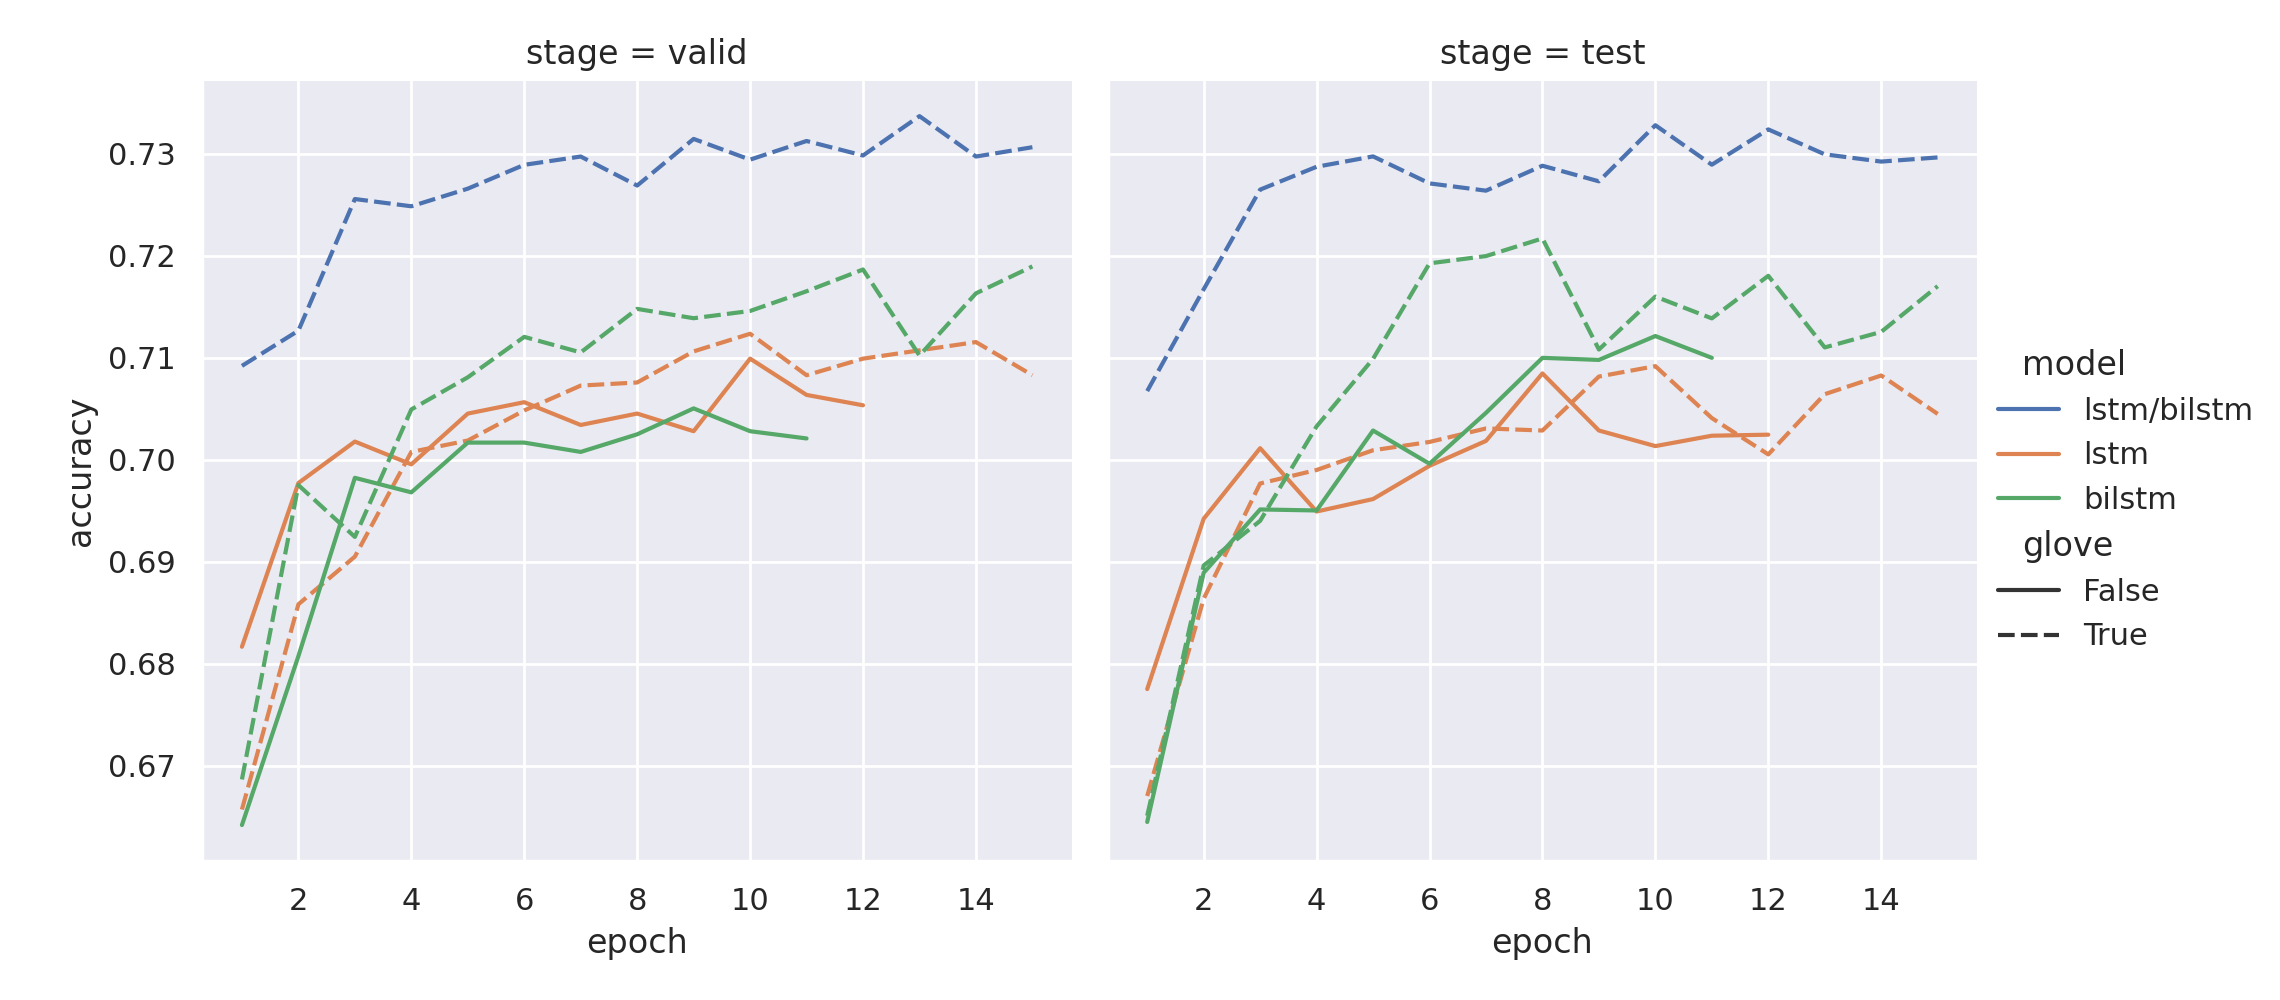
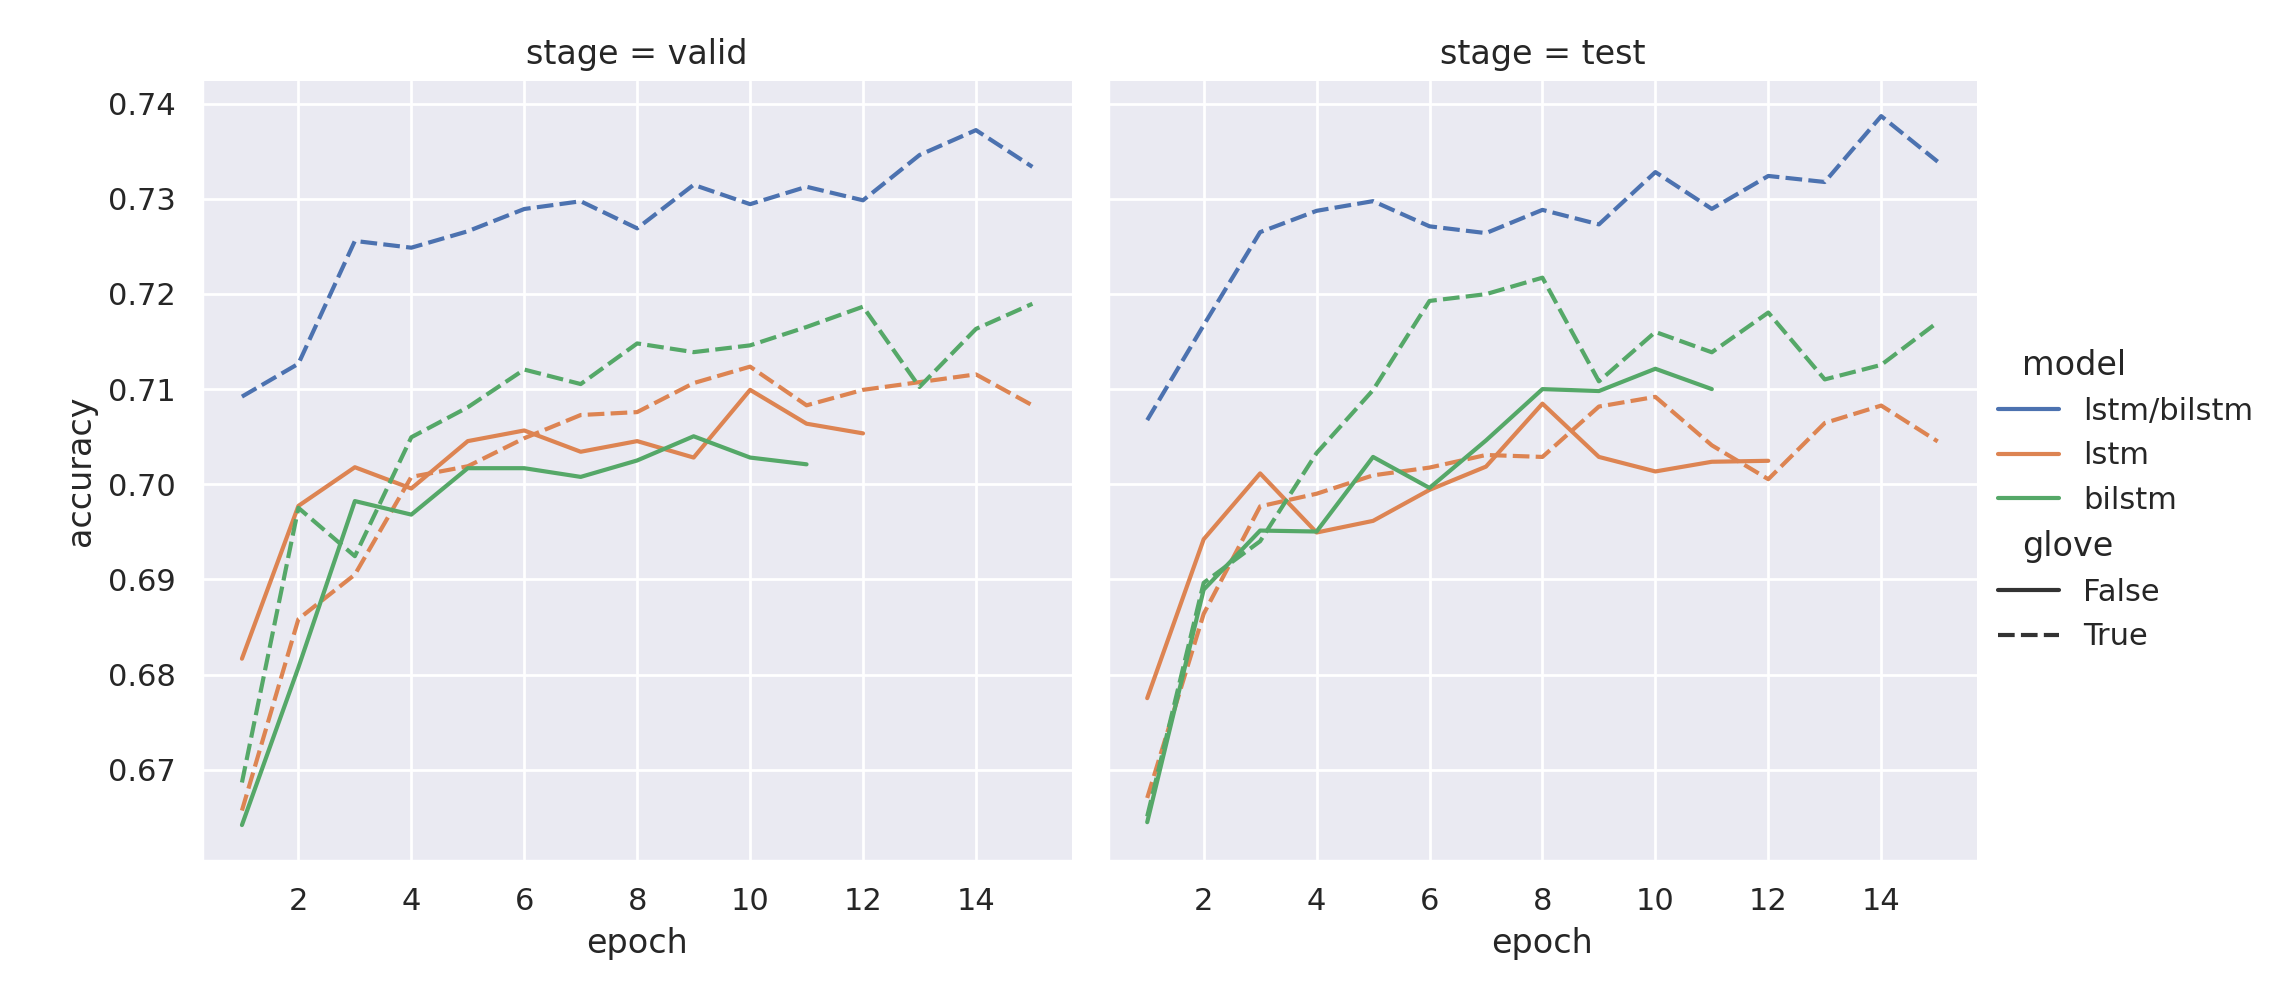
change to 2 layers

diff --git a/COMP545/A3/code.py b/COMP545/A3/code.py
@@ -527,7 +527,7 @@ def run_snli(model, use_glove=True):
     glove_embeddings = create_embedding_matrix(index_map,emb_dict,glove.shape[1])
 
     # training code
-    model = model(len(index_map),100, 1, 3)
+    model = model(len(index_map),100, 2, 3)
 
     if use_glove:
         model.embedding_layer.from_pretrained(glove_embeddings, freeze=False, padding_idx=0)
